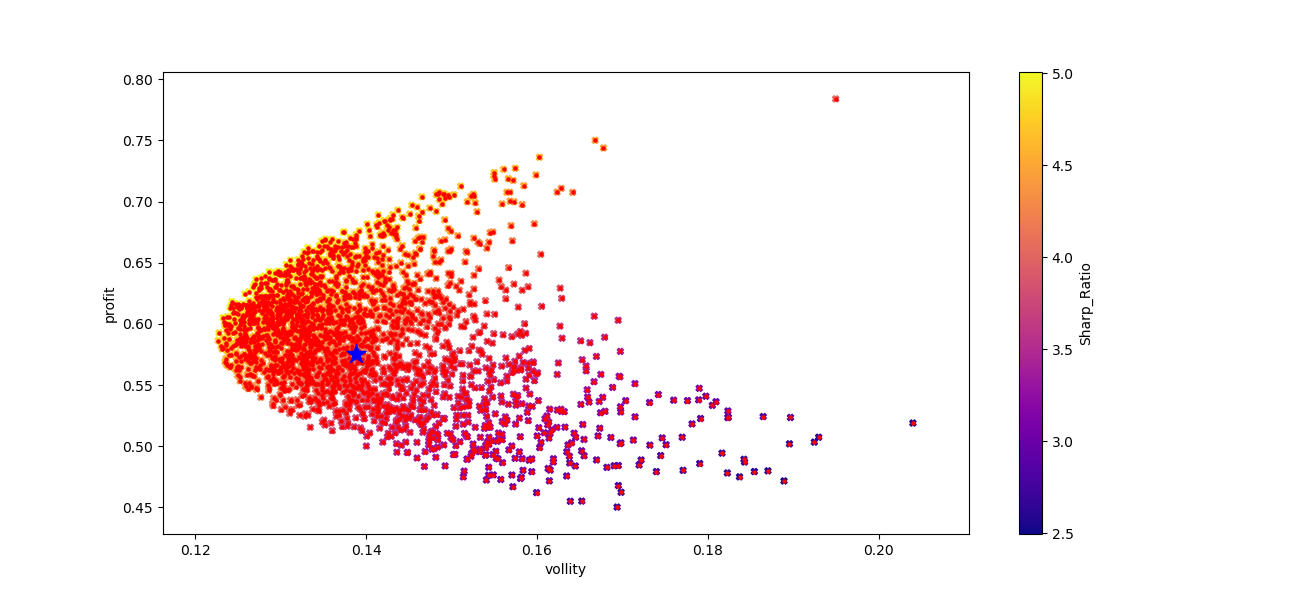
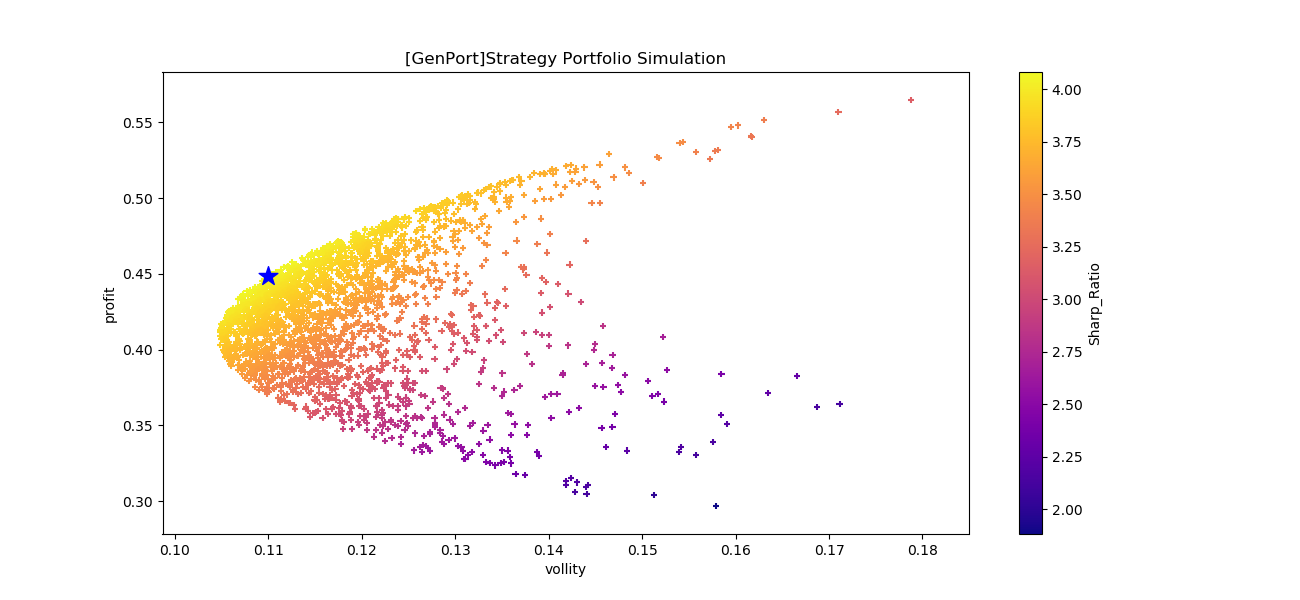
샤프비 시뮬레이터 완성
그림까지 완성[1차 배포]

diff --git a/portfoliooptimize.py b/portfoliooptimize.py
@@ -1,23 +1,11 @@
 # -*- coding: utf-8 -*-
 
-## 패키지 생성
+## 패키지 불러오기
 from datetime import datetime
-import matplotlib
 import matplotlib.pyplot as plt
-import matplotlib.ticker as ticker
-from matplotlib import dates
-import matplotlib.font_manager as font_manager
 import numpy as np
 import pandas as pd
-import seaborn as sns
 
-'''
-# 맑은고딕체
-sns.set(style="whitegrid", font="Malgun Gothic", font_scale=1.0)
-matplotlib.rcParams['figure.figsize'] = [12, 8]
-fp = font_manager.FontProperties(fname="C:\\WINDOWS\\Fonts\\malgun.TTF", size=10)
-
-'''
 
 ## 포트폴리오 최적화
 class Opt_portfolio():
@@ -25,14 +13,13 @@ class Opt_portfolio():
     ## 준비
     def __init__(self):
         ## 포트폴리오의 Number를 입력받아 Array Type로 저장
-        self.portfolio_list = []
+        self.pf_list = []
 
 
     ## 시뮬레이션 위한 포트폴리오 입력
     def read_portfolio(self, *portfolio_number):      
-        self.portfolio_list = list(portfolio_number)[0].split()
-
-        print("포트폴리오 갯수 : %d" %len(self.portfolio_list))
+        self.pf_list = list(portfolio_number)[0].split()
+        print("포트폴리오 갯수 : %d" %len(self.pf_list))
 
 
     ## 수익률 데이터 전처리
@@ -41,11 +28,11 @@ class Opt_portfolio():
         temp= pd.DataFrame()
        
         ## store amount data to dataframe
-        for i in range(len(self.portfolio_list)):
-            portfolio_number = self.portfolio_list[i]
+        for i in range(len(self.pf_list)):
+            portfolio_number = self.pf_list[i]
             filepath = "trade_history_daily_" + portfolio_number + '.csv'
             tradedata = pd.read_csv(filepath, header=0)
-            temp['%s' %self.portfolio_list[i]] = tradedata['총자산'].astype(int)
+            temp['%s' %self.pf_list[i]] = tradedata['총자산'].astype(int)
         
         ## calculate profit data
         temp = np.log(temp/temp.shift(1))
@@ -59,8 +46,8 @@ class Opt_portfolio():
         time = 2500
         columns_list = []
 
-        for i in range(len(self.portfolio_list)):
-            columns_list.append('weights_%s' %self.portfolio_list[i])
+        for i in self.pf_list:
+            columns_list.append('weights_%s' %i)
 
         columns_list.append('profit')
         columns_list.append('vollity')
@@ -82,14 +69,14 @@ class Opt_portfolio():
             weights_b[p] = weight[1]
             '''
 
-            weight = np.array(np.random.random(len(self.portfolio_list))) 
+            weight = np.array(np.random.random(len(self.pf_list))) 
             weight /= np.sum(weight)
 
             for i in range(len(weight)):
                 temp_array.append(weight[i])
                 
-            profits = np.sum((data.mean() * weight) * 365)
-            vols = np.sqrt(np.dot(weight.T, np.dot(data.cov() * 365, weight)))
+            profits = np.sum((data.mean() * weight) * 252)
+            vols = np.sqrt(np.dot(weight.T, np.dot(data.cov() * 252, weight)))
             sharps = profits/vols
 
             temp_array.append(profits)
@@ -99,40 +86,44 @@ class Opt_portfolio():
             dataframe_array.append(temp_array)
 
         simulated_data = pd.DataFrame(dataframe_array, columns = columns_list)
-        simulated_data = simulated_data.sort_values(by='Sharp_Ratio', ascending=False)
 
-        print('- - - - - - - - -')
-        print(simulated_data.head())
-        print('- - - - - - - - -')
-
+        ## 데이터 출력
         return simulated_data
 
     ## 그래프 작도
     def draw_graph_sharp_ratio(self, data):
+        data = simulated_data.sort_values(by='Sharp_Ratio', ascending=False)
+
+        ## 출력 형식 : 시뮬레이션 순번, 비중 
+        ## Max Sharp Ratio Top 5 출력
+        print('- - - - - - - - -')
+        print(data.head())
+        print('- - - - - - - - -')
 
         ## 그래프 작도
         fig, ax = plt.subplots(nrows=1, ncols=1, figsize=(13,6), sharex=True)
-        data.plot(kind='scatter', ax=ax, x='vollity', y='profit', c='Sharp_Ratio', marker='X', cmap='plasma')
-        plt.scatter(data['vollity'], data['profit'], c='red', s=5)
-
+        data.plot(kind='scatter', ax=ax, x='vollity', y='profit', c='Sharp_Ratio', marker='+', cmap='plasma')
+        
         ## 최대 Sharp Ratio에 따른 출력값 작성
         max_sharp_ratio_index = data['Sharp_Ratio'].idxmax()
-        profit_max_SR = data.iloc[max_sharp_ratio_index].loc['profit']
-        vol_max_SR = data.iloc[max_sharp_ratio_index].loc['vollity']
-        
-        '''
-        max_weight_A = data.iloc[max_sharp_ratio].loc['weights_A']
-        max_weight_B = data.iloc[max_sharp_ratio].loc['weights_B']
-        '''
-            
+        profit_max_SR = data.iloc[0].loc['profit']
+        vol_max_SR = data.iloc[0].loc['vollity']
+                  
+        ## 최대 Sharp ratio일때 Vol, Profit 출력
         plt.scatter(vol_max_SR, profit_max_SR, c='Blue', marker='*', s=200)
+        plt.title('[GenPort]Strategy Portfolio Simulation')
 
         ## 샤프비율 최대일때 수익률, 변동성 출력
         print("최대 샤프값 시뮬레이션 순번 : %d" %max_sharp_ratio_index)
         print('예상 수익률 : %.3f' % (profit_max_SR * 100))
         print('예상 변동성 : %.3f' % (vol_max_SR * 100))
         print('Sharp Ratio : %.3f' % data['Sharp_Ratio'].max())
+        print(" ")
+        for i in self.pf_list:
+            temp_weight = data.iloc[0].loc['weights_%s' %i]
+            print("%s 비중 : %.3f %%" %(i, temp_weight * 100))
 
+        ## PNG로 출력 및 시현
         plt.savefig('sharp_simulate')
         plt.show()
 
@@ -141,34 +132,47 @@ class Opt_portfolio():
 class run_backtest():
 
     ## 필요한 것들 준비
-    def __init__(self):
+    ## 포트폴리오 넘버 리스트, 시뮬레이션 결과 데이터
+    def __init__(self, pf_list, opt_data):
+        self.pf_list = list(pf_list.split())
+        self.count = len(pf_list)
+        self.opt_data = opt_data 
+
+        '''
         self.filepath_first = "trade_history_daily_536928.csv"
         self.filepath_second = "trade_history_daily_556120.csv"
         
         self.tradedata_first = pd.read_csv(self.filepath_first, header=0)
         self.tradedata_second = pd.read_csv(self.filepath_second, header=0)
 
+        self.count = 2 ## Asset 갯수
+        '''
+
         self.fee = 0.00015  # 수수료 0.015%
 
-        self.count = 2 ## Asset 갯수
-
-
-## 거래 데이터 가공
-    def process_trade_data(self, data):
+    ## 수익률 데이터 전처리
+    def preprocess_tradedata(self):
+        ## empty data to store preprocessd data
+        ## 날짜 - 각 PF별 누적수익 - 비중조절후 합한 누적수익
         temp_df = pd.DataFrame()
+        max_sharp_ratio_area = self.opt_data['Sharp_Ratio'].idxmax()
 
-        max_sharp_ratio = data['Sharp_Ratio'].idxmax()
-        profit_max_SR = data.iloc[max_sharp_ratio].loc['Profit']
-        vol_max_SR = data.iloc[max_sharp_ratio].loc['Vollity']
-        max_weight_A = data.iloc[max_sharp_ratio].loc['weights_A']
-        max_weight_B = data.iloc[max_sharp_ratio].loc['weights_B']
+        filepath = "trade_history_daily_" + self.pf_list[0] + '.csv'
+        raw_data = pd.read_csv(filepath, header=0)
+        temp_df['날짜'] = raw_data['날짜']
+        temp_df['누적수익률_Opt'] = 0.000
+        
+        ## 누적 수익 저장
+        for i in self.pf_list:
+            pf_number = i
+            filepath = "trade_history_daily_" + pf_number + '.csv'
+            tradedata = pd.read_csv(filepath, header=0)
+            temp_df['누적수익률_%s' %i] = tradedata['누적수익률'].astype(float)
 
-        weight_array = [max_weight_A, max_weight_B]
-
-        temp_df['날짜'] = self.tradedata_first['날짜']
-        temp_df['누적수익률_A'] = self.tradedata_first['누적수익률']
-        temp_df['누적수익률_B'] = self.tradedata_second['누적수익률']
-        temp_df['누적수익률_Opt'] = temp_df['누적수익률_A'] * weight_array[0] + temp_df['누적수익률_B'] * weight_array[1]
+        ## 전체 수익 저장
+        for i in self.pf_list:
+            weight_temp = self.opt_data.iloc[max_sharp_ratio_area].loc['weights_%s' %i] 
+            temp_df['누적수익률_Opt'] = (temp_df['누적수익률_%s' %i] * weight_temp) + temp_df['누적수익률_Opt']
 
         temp_df['누적수익률'] = temp_df['누적수익률_Opt'].astype(float)/100+1.0
         temp_df['최고누적'] = temp_df['누적수익률'].rolling(min_periods=1, window=100).max()
@@ -178,20 +182,7 @@ class run_backtest():
         temp_df['HL'] = np.where(temp_df['DD']<0,-1,1)
         temp_df['HLcount'] = (temp_df.groupby((temp_df['HL'] != temp_df['HL'].shift(1)).cumsum()).cumcount()+1) * temp_df['HL']
 
-        d1 = str(temp_df['날짜'].iloc[0]) # 거래시작일
-        d11 = datetime.strptime(d1, "%Y%m%d")
-        d2 = str(temp_df['날짜'].iloc[-1]) # 거래종료일
-        d22 = datetime.strptime(d2, "%Y%m%d")
-        delta = d22-d11
-        delta_days = delta.days
-        period = delta_days/365 # 투자기간(년)
-        MDD = str(temp_df['MDD'].min()*100)[0:5]+"%"
-        CAGR = str(temp_df['누적수익률'].iloc[-1]**(1/period)*100-100)[0:4]+"%"
-
-        MaxHigh = temp_df['HLcount'].max() # 고점 갱신 연속일 수 
-        MaxLow = temp_df['HLcount'].min() # 잠수 구간 일 수 
-		
-        return temp_df
+        return temp_df            
 
 
 	## matplotlib 이용 그래프 시현
@@ -202,45 +193,40 @@ class run_backtest():
         d22 = datetime.strptime(d2, "%Y%m%d")
         delta = d22-d11
         delta_days = delta.days
-        period = delta_days/365 # 투자기간(년)
-        MDD = str(temp_df['MDD'].min()*100)[0:5]+"%"
-        CAGR = str(temp_df['누적수익률'].iloc[-1]**(1/period)*100-100)[0:4]+"%"
+        period = delta_days/252 # 투자기간(년)
+
+        MDD = round(temp_df['MDD'].min() * 100, 2)
+        CAGR = round(temp_df['누적수익률'].iloc[-1] ** (1/period) * 100 - 100, 2)
 
         xtick_interval = 20 ## 20거래일 가로축
         plt.rcParams["figure.figsize"] = (14,7)
-        split= self.filepath_first.split(".")
-        split1 = split[0].split("_")
-        png_ext = split1[3]
+        png_ext = 'portfolio'
     
         plt.subplot(2,1,1) # row, column, index
         plt.yscale('log') # y-axis log scale
         plt.semilogy(temp_df['누적수익률'], color='#1F77B4')
-        plt.semilogy(temp_df['최고누적'],color='#FF8D29')
-        plt.xlabel('[trading day count]')
+        plt.semilogy(temp_df['최고누적'], color='#FF8D29')
+        plt.xlabel('[Trading Day]')
         plt.ylabel('[Cumulative Return]')
-        plt.legend(["cumulative CAGR "+CAGR,"newHigh"])
-        plt.xticks(np.arange(min(temp_df.index),max(temp_df.index)+1,xtick_interval))
-        plt.title('[gen port] day_history Analsis_CUMULATIVE_RETURN')
+        plt.legend(["Simulate CAGR : %.2f %%" %CAGR, "newHigh"])
+        plt.xticks(np.arange(min(temp_df.index), max(temp_df.index) + 1, xtick_interval))
+        plt.title('[GenPort]Strategy Portfolio Simulation - Cumulative Return')
         plt.grid(True)
 
         plt.subplot(2, 1, 2)
-        plt.plot(temp_df['DD'],color='#FF8D29')
-        plt.plot(temp_df['MDD'],color='#DA3F40')
-        plt.xlabel('[trading day count]')
+        plt.plot(temp_df['DD'], color='#FF8D29')
+        plt.plot(temp_df['MDD'], color='#DA3F40')
+        plt.xlabel('[Trading day]')
         plt.ylabel('[DrawDown]')
-        plt.legend(["DD","MDD "+ MDD])
-        plt.xticks(np.arange(min(temp_df.index),max(temp_df.index)+1,xtick_interval))
-        plt.title('[GenPort] day_history Analsis_MDD')
+        plt.legend(["DD", "MDD : %.2f %%" %MDD])
+        plt.xticks(np.arange(min(temp_df.index), max(temp_df.index) + 1, xtick_interval))
+        plt.title('[GenPort]Strategy Portfolio Simulation - MDD')
 
         plt.tight_layout()
         plt.grid(True)
-        plt.savefig('genport2-'+png_ext+'-log.png')
+        plt.savefig('Genport Curve and MDD Simulation-'+png_ext+'Portfolio.png')
 
         plt.show()
-
-        print("CAGR : "+ CAGR)
-        print("MDD : "+ MDD)
-        print("C/M : "+ CAGR/MDD)
 
 
     ## 성과 시현
@@ -252,26 +238,29 @@ class run_backtest():
         delta = d22-d11
         delta_days = delta.days
         period = delta_days/252 # 투자기간(년)
-        MDD = str(temp_df['MDD'].min()*100)[0:5]+"%"
-        CAGR = str(temp_df['누적수익률'].iloc[-2]**(1/period)*100-100)[0:4]+"%"
+        MDD = round(temp_df['MDD'].min() * 100, 2)
+        CAGR = round(temp_df['누적수익률'].iloc[-1] ** (1/period) * 100 - 100, 2)
+        
+        print("- - - - - - - - - -")
+        print("Predict CAGR : %.2f %%" %CAGR)
+        print("Predict MDD : %.2f %%" %MDD)
+        print("- - - - - - - - - -")
 
 
 ## 테스트
 if __name__=="__main__":
     Opt_portfolio = Opt_portfolio()
-    portfolio_list = input("포트폴리오 입력 :")
+    pf_list = input("포트폴리오 입력 :")
     
-    Opt_portfolio.read_portfolio(portfolio_list)
+    Opt_portfolio.read_portfolio(pf_list)
 
+    ## 최대 샤프비중 시뮬레이션
     processd_data = Opt_portfolio.preprocess_tradedata()
     simulated_data = Opt_portfolio.random_portfolio_weight(processd_data)
     Opt_portfolio.draw_graph_sharp_ratio(simulated_data)
 
-    '''
-    Show_portfolio = run_backtest()
-    growth_data = Show_portfolio.process_trade_data(simulated_data)
+    ## 포트폴리오 비중 배분 후 수익률 및 MDD Graph 시현
+    Show_portfolio = run_backtest(pf_list, simulated_data)
+    growth_data = Show_portfolio.preprocess_tradedata()
     Show_portfolio.draw_graph(growth_data)
-    '''
-    '''
-    현재 
-    '''
+    Show_portfolio.show_result(growth_data)
